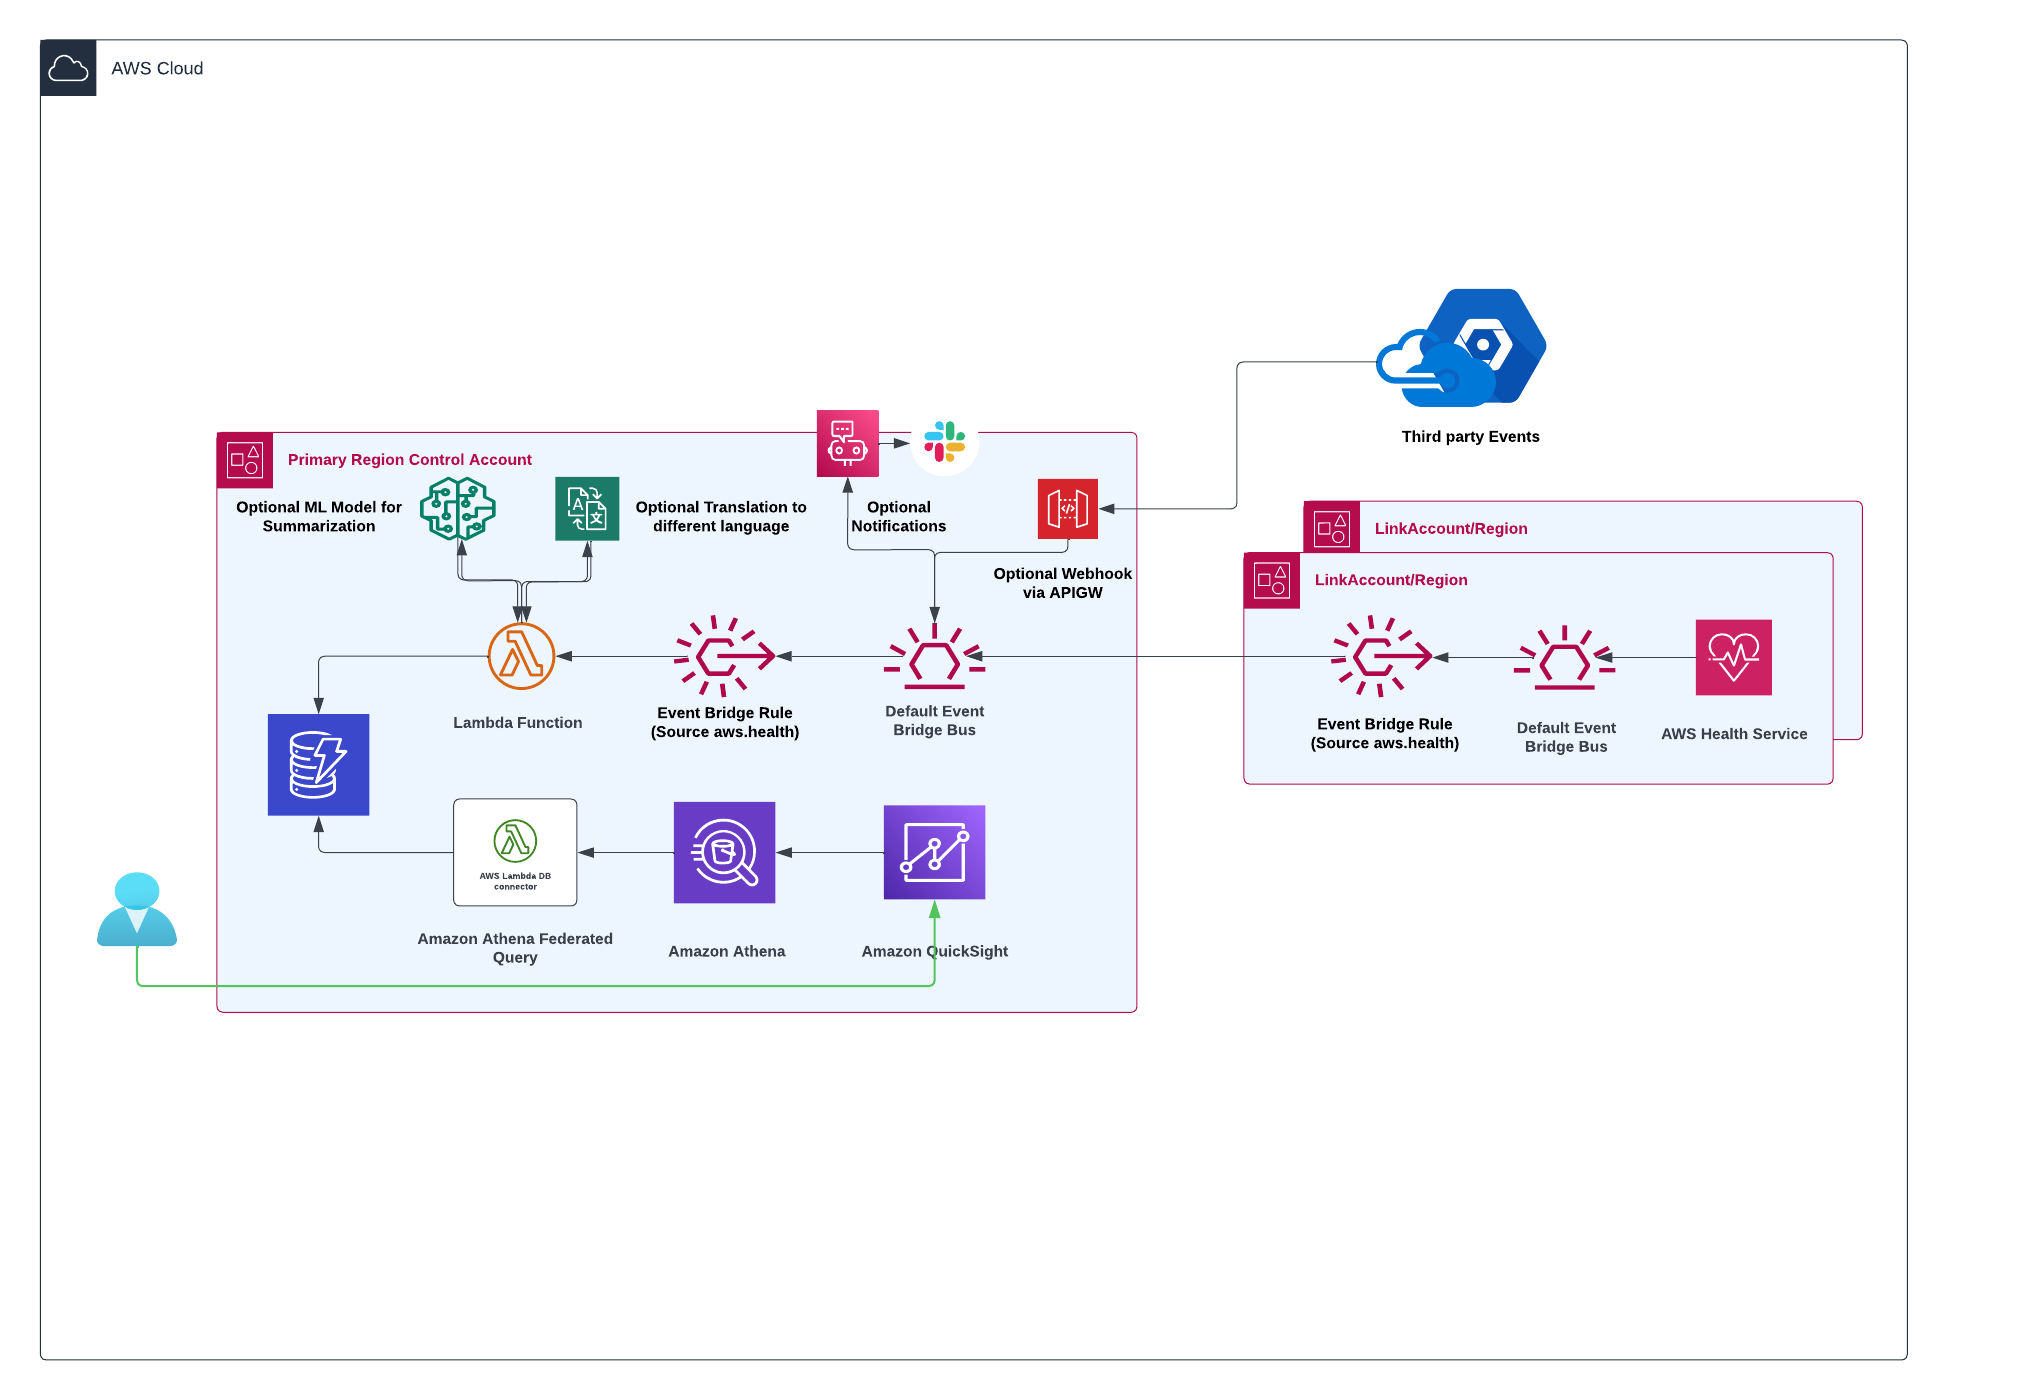
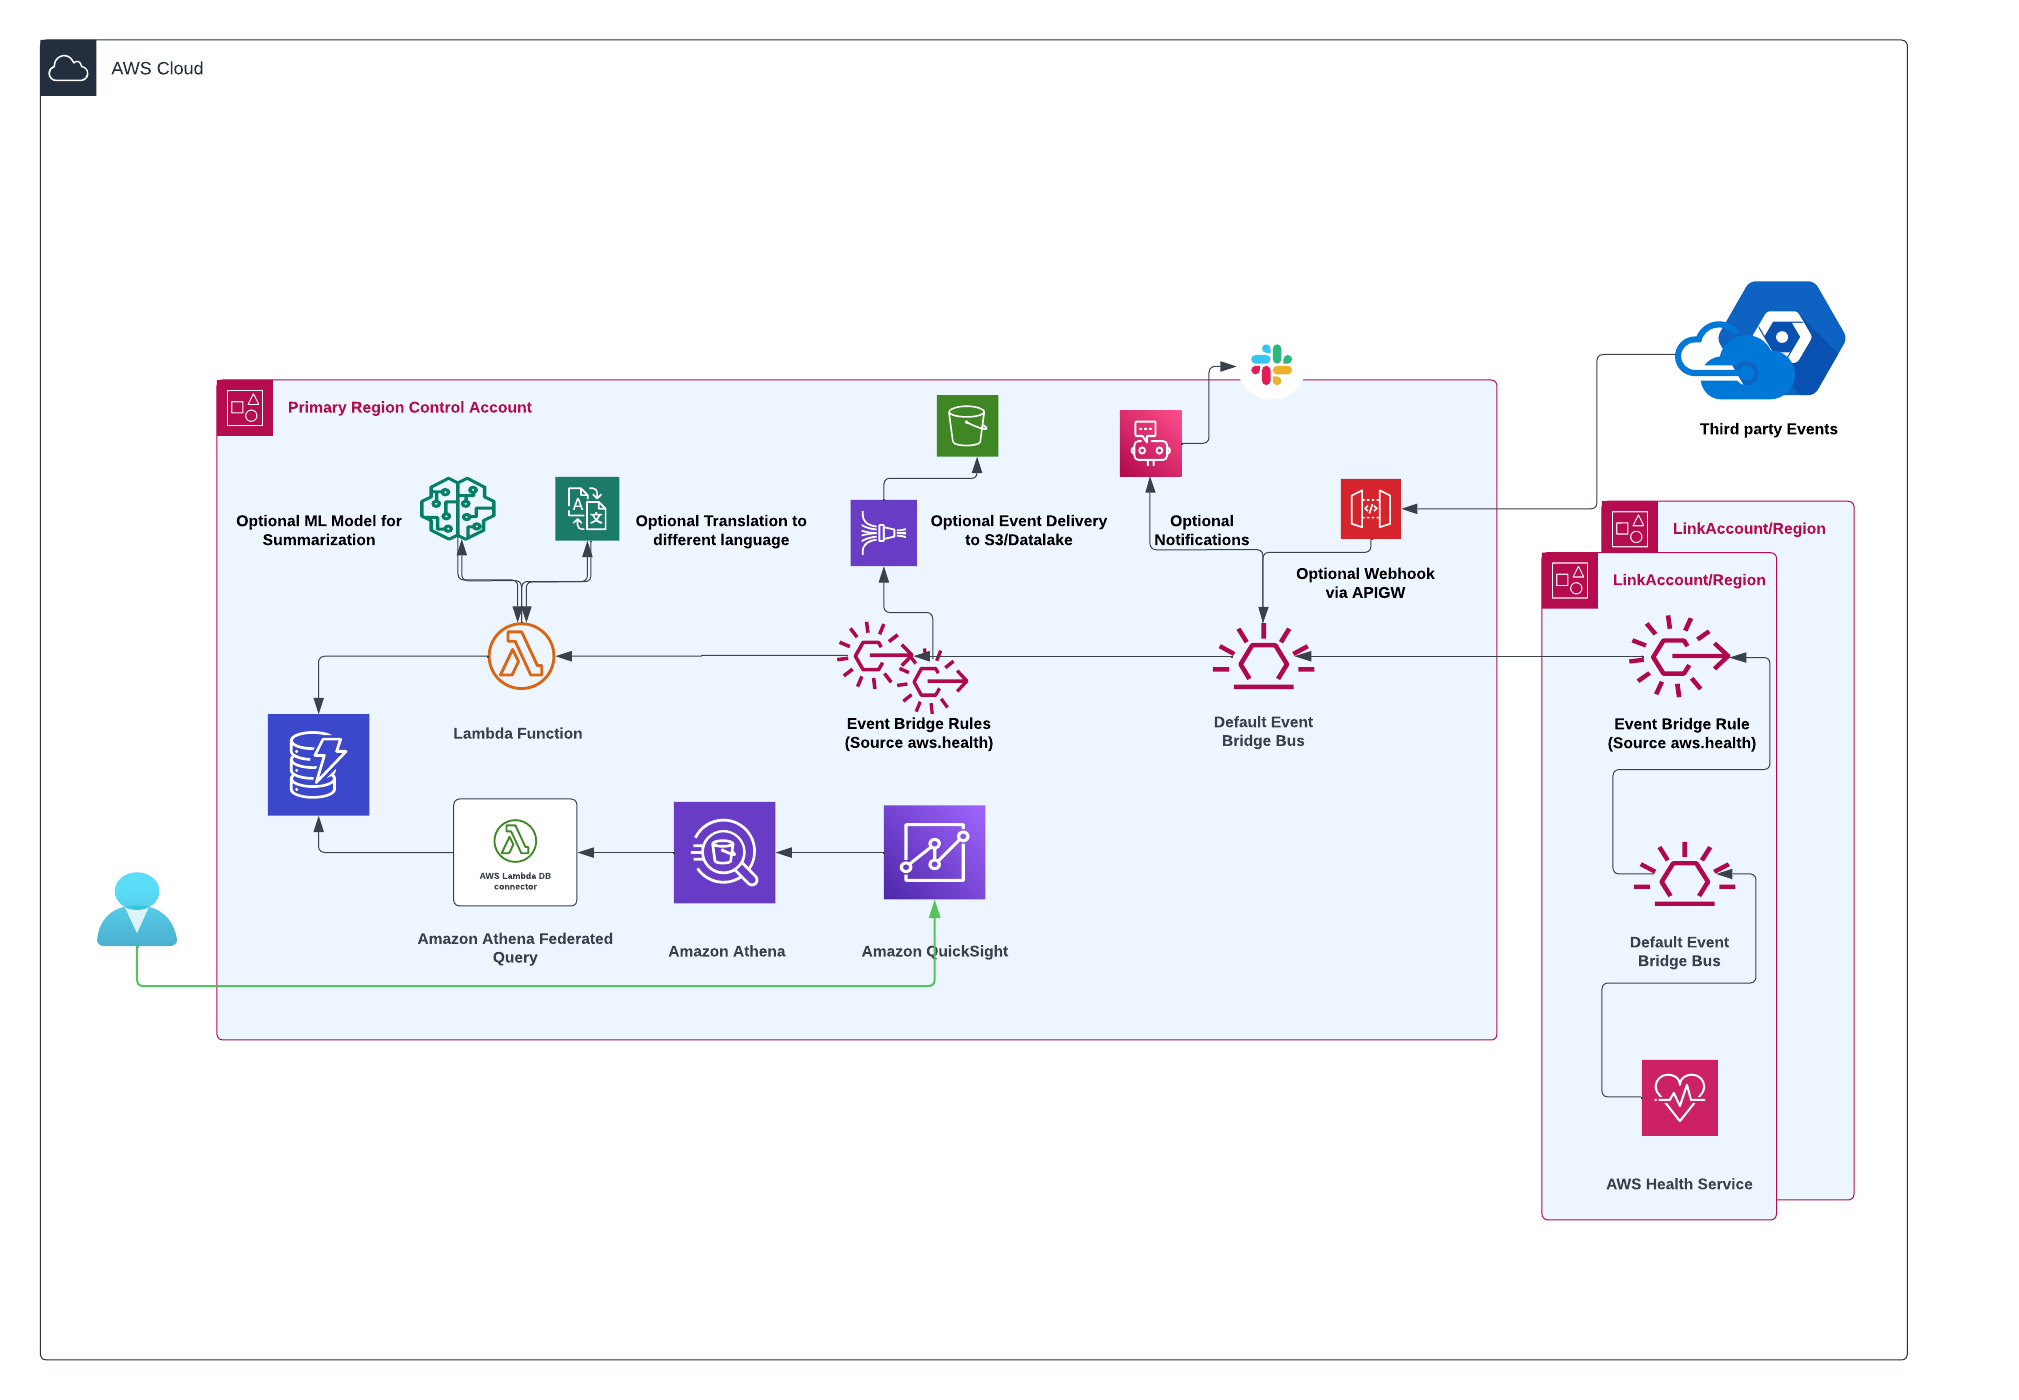
Added support for S3 delivery for datalake

diff --git a/OneClickSetup/ControlAccountSetup.py b/OneClickSetup/ControlAccountSetup.py
@@ -39,7 +39,8 @@ def create_or_get_s3_bucket(bucket_name, region):
     try:
         s3_client = boto3.client('s3', region_name=region)
         s3_client.head_bucket(Bucket=bucket_name)
-        print(f"S3 bucket {bucket_name} already exists")
+        print(f"Skip Creating: S3 bucket {bucket_name} already exists")
+        supplied_bucket = bucket_name
     except ClientError as e:
         if region == 'us-east-1':
             s3_client.create_bucket(Bucket=bucket_name)
@@ -47,8 +48,12 @@ def create_or_get_s3_bucket(bucket_name, region):
             location = {'LocationConstraint': region}
             s3_client.create_bucket(Bucket=bucket_name, CreateBucketConfiguration=location)
         s3_client.get_waiter("bucket_exists").wait(Bucket=bucket_name)
+        supplied_bucket = bucket_name
         print(f"S3 bucket {bucket_name} has been created")
+    return supplied_bucket
 
+def sync_cfnfiles(bucket_name,region):
+    create_or_get_s3_bucket(bucket_name, region)
     try:
         #Added Support for Lambda Build PreSync
         zip_files('../src/lambda-source-code', '../src/lambda-source-code/lambda.zip')
@@ -115,7 +120,7 @@ def translate_text(Include_targetLang):
         targetLang = ""
     return targetLang
 
-def create_or_update_cloudformation_stack(region, stack_name, bucket_name, quicksight_user, SageMakerEndpoint, quicksight_service_role, isPrimaryRegion, secondaryRegion,webhookSelected):
+def create_or_update_cloudformation_stack(region, stack_name, bucket_name, quicksight_user, SageMakerEndpoint, quicksight_service_role, isPrimaryRegion, secondaryRegion,webhookSelected,datalakebucket):
     """
     Create or update the CloudFormation stack based on its status.
     """
@@ -137,7 +142,8 @@ def create_or_update_cloudformation_stack(region, stack_name, bucket_name, quick
                     {"ParameterKey": "targetLang", "ParameterValue": targetLang},
                     {"ParameterKey": "isPrimaryRegion", "ParameterValue": isPrimaryRegion},
                     {"ParameterKey": "secondaryRegion", "ParameterValue": secondaryRegion},
-                    {"ParameterKey": "webhookSelected", "ParameterValue": webhookSelected}
+                    {"ParameterKey": "webhookSelected", "ParameterValue": webhookSelected},
+                    {"ParameterKey": "datalakebucket", "ParameterValue": datalakebucket}
                 ],
                 Capabilities=["CAPABILITY_NAMED_IAM", "CAPABILITY_AUTO_EXPAND"],
                 DisableRollback=True
@@ -164,12 +170,13 @@ def create_or_update_cloudformation_stack(region, stack_name, bucket_name, quick
             DisableRollback=True
         )
         print(f"Stack creation initiated for {region}: {response.get('StackId')}")
+#Get account_id for resource names
+account_id = get_account_id()
+# Get the default region or prompt user for a region
+default_region = get_default_region()
 
 # Get input for multiRegion Deployment
 multiregion = input(f"Do you want to deploy central accout setup in multiregion (yes/no): ")
-
-# Get the default region or prompt user for a region
-default_region = get_default_region()
 region = input(f"Enter Primary region name (Hit enter to use default: {default_region}): ") or default_region
 
 if multiregion == "yes":
@@ -177,14 +184,22 @@ if multiregion == "yes":
 else:
     secondaryRegion= ""
 
-# Get the AWS account ID
-account_id = get_account_id()
-
 # Get the S3 bucket name or prompt user for a bucket name
 bucket_name = input(f"Enter S3 bucket name for Primary Region (Hit enter to use default: awseventhealth-{account_id}-{region}): ") or f"awseventhealth-{account_id}-{region}"
-
 if multiregion == "yes":
     Secondary_bucket_name = input(f"Enter S3 bucket name for Secondary Region (Hit enter to use default: awseventhealth-{account_id}-{secondaryRegion}): ") or f"awseventhealth-{account_id}-{secondaryRegion}"
+
+# Prompt user to include delivery events to S3 to create datalake
+s3selected = input("Do you want to send events to s3 for datalake/future reference? (yes/no): ")
+if s3selected == "yes":
+    datalakebucket = input(f"Enter S3 bucket name for Primary datalake(Hit enter to use default: awseventhealth-{account_id}-{region}): ") or f"awseventhealth-{account_id}-{region}"
+    create_or_get_s3_bucket(datalakebucket, region)
+    if multiregion == "yes":
+        Secondarydatalakebucket = input(f"Enter S3 bucket name for secondary datalake(Hit enter to use default: awseventhealth-{account_id}-{secondaryRegion}): ") or f"awseventhealth-{account_id}-{secondaryRegion}"
+        create_or_get_s3_bucket(Secondarydatalakebucket, region)
+else:  
+    datalakebucket = ""
+    Secondarydatalakebucket=""
 
 # Get the QuickSight service role or use a default value
 quicksight_service_role = input("Enter QuickSight Service Role (Hit enter to use default: aws-quicksight-service-role-v0): ") or "aws-quicksight-service-role-v0"
@@ -207,22 +222,21 @@ targetLang = translate_text(Include_targetLang)
 
 # Prompt user to include webhook for 3rd party event ingestion
 webhookSelected = input("Do you want setup webhook for 3rd party event ingestion? (yes/no): ")
-# Get response for translation
 if webhookSelected != "yes":
     webhookSelected = ""
 
-# Create or get the S3 bucket
-create_or_get_s3_bucket(bucket_name, region)
+# Create or get the S3 bucket and s
+sync_cfnfiles(bucket_name, region)
 if multiregion == "yes":
-    create_or_get_s3_bucket(Secondary_bucket_name, secondaryRegion)
+    sync_cfnfiles(Secondary_bucket_name, secondaryRegion)
 
 
 #Zip Up Lambda and write to S3 
 
 # Create or update the CloudFormation stack
 stack_name = f"HealthEventDashboardStack{account_id}-{region}"
-create_or_update_cloudformation_stack(region, stack_name, bucket_name, quicksight_user, SageMakerEndpoint, quicksight_service_role,'Y',secondaryRegion,webhookSelected)
+create_or_update_cloudformation_stack(region, stack_name, bucket_name, quicksight_user, SageMakerEndpoint, quicksight_service_role,'Y',secondaryRegion,webhookSelected,datalakebucket)
 
 if multiregion == "yes":
     stack_name = f"HealthEventDashboardStack{account_id}-{secondaryRegion}"
-    create_or_update_cloudformation_stack(secondaryRegion, stack_name, Secondary_bucket_name, quicksight_user, SageMakerEndpoint, quicksight_service_role,'N',secondaryRegion,webhookSelected)
+    create_or_update_cloudformation_stack(secondaryRegion, stack_name, Secondary_bucket_name, quicksight_user, SageMakerEndpoint, quicksight_service_role,'N',secondaryRegion,webhookSelected,Secondarydatalakebucket)
